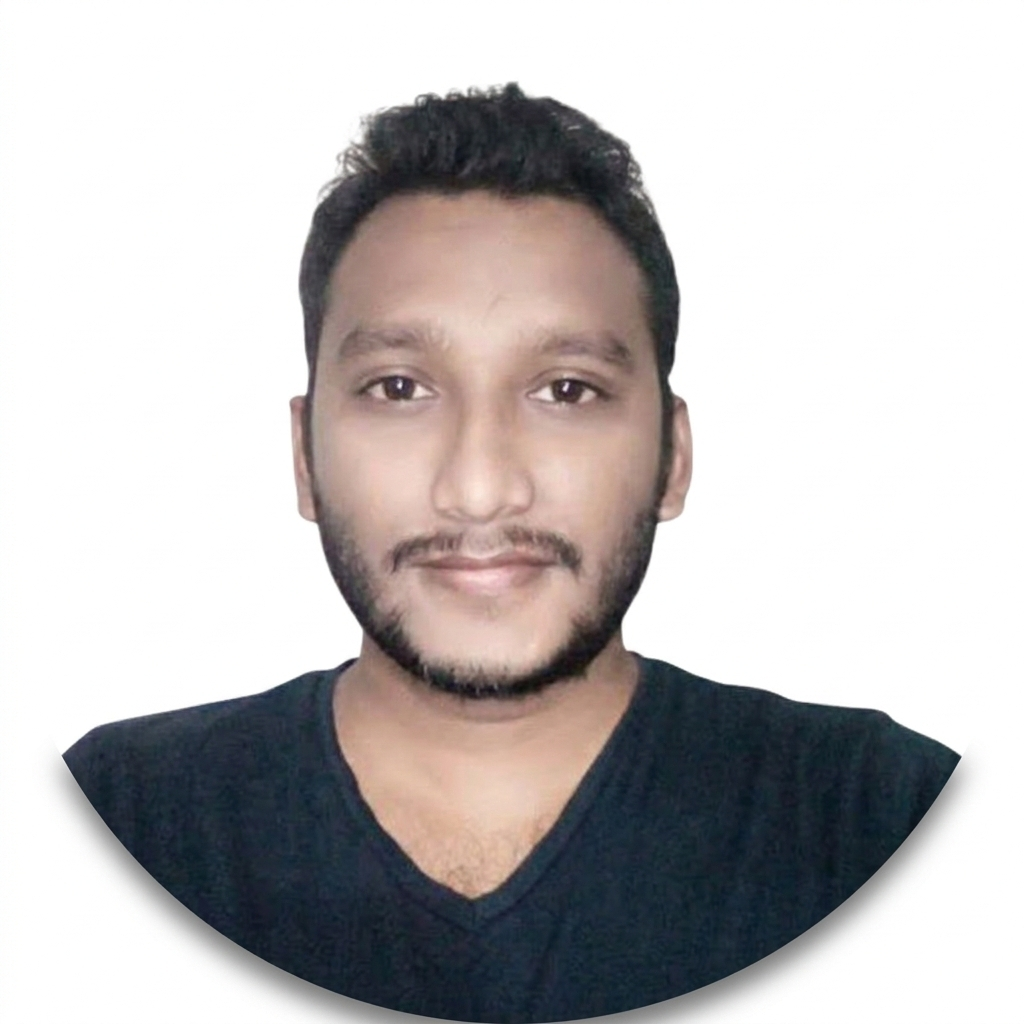
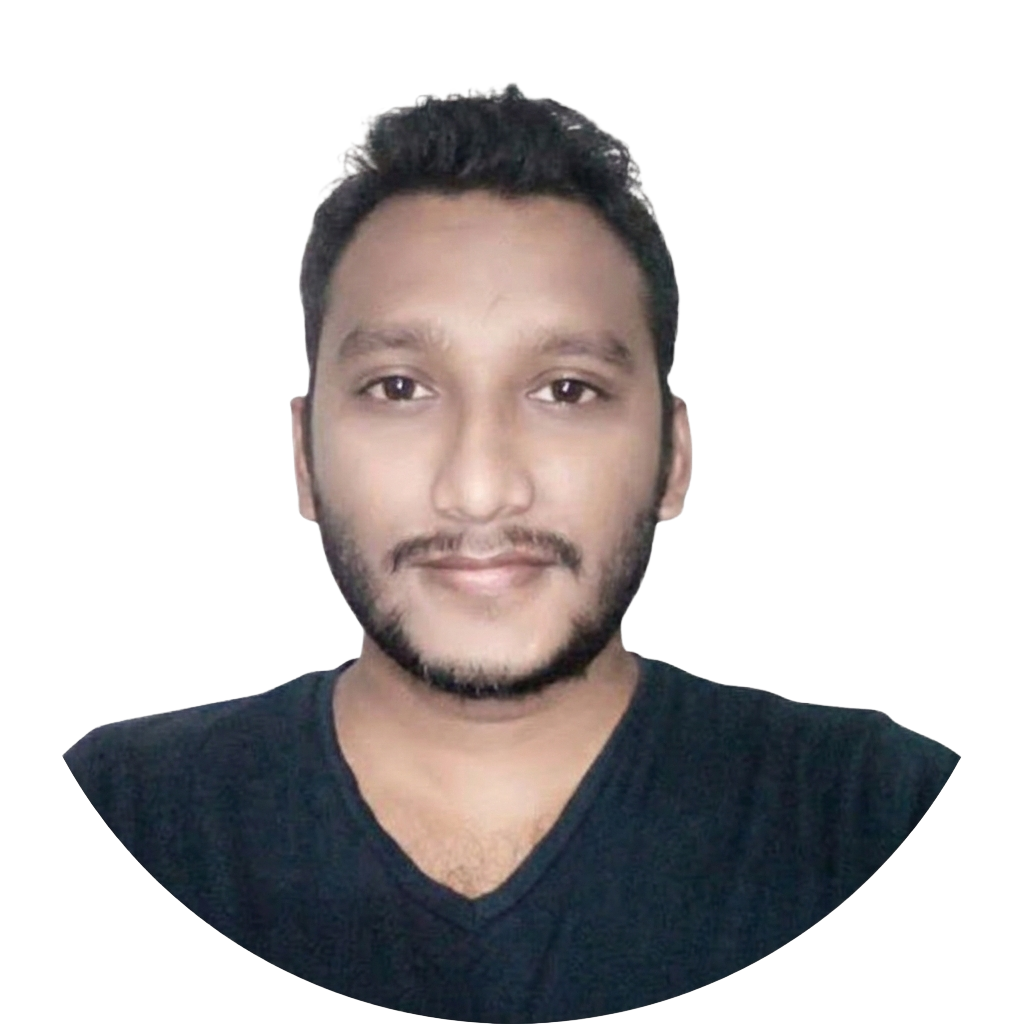
Add: Profile photo

diff --git a/components/Photo.jsx b/components/Photo.jsx
@@ -5,18 +5,16 @@ import React from 'react'
 
 const Photo = () => {
   return (
-    <div className='w-full h-full relative rounded-full bg-gradient-to-tr from-accent to-primary overflow-hidden'>
+    <div className='w-full h-full relative '>
       <motion.div>
-        <div>
+        <div className='w-[298px] h-[298px] xl:w-[498px] xl:h-[498px]'>
           <Image
-            src="/sadekur-rahman.png"
+            src="/assets/photo.png"
             priority
             quality={100}
             fill
             alt="Sadekur Rahman"
-            // width={400}
-            // height={400}
-            className="w-[298px] h-[298px] object-cover rounded-full"
+            className="object-contain"
           />
         </div>
       </motion.div>
